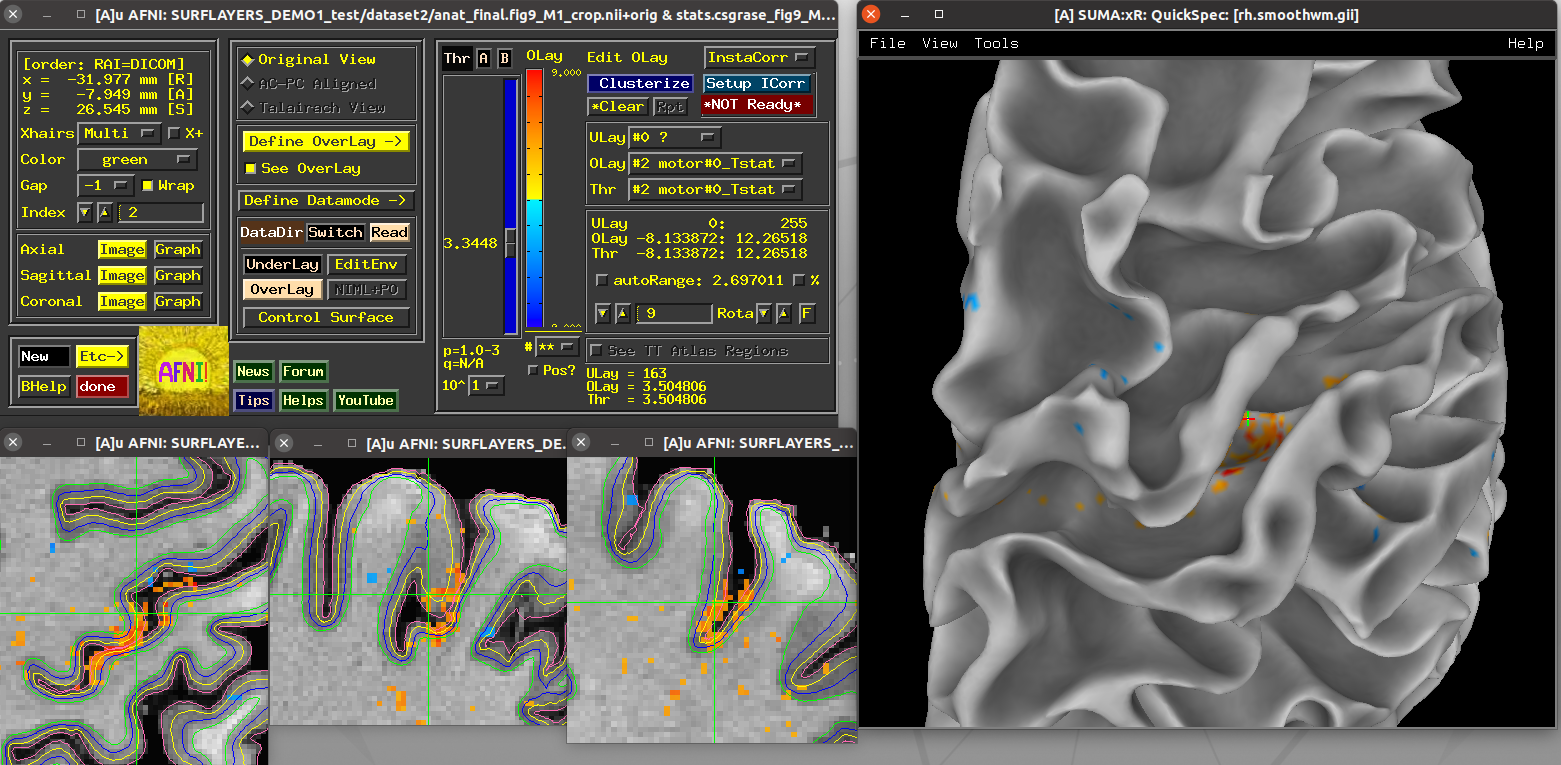
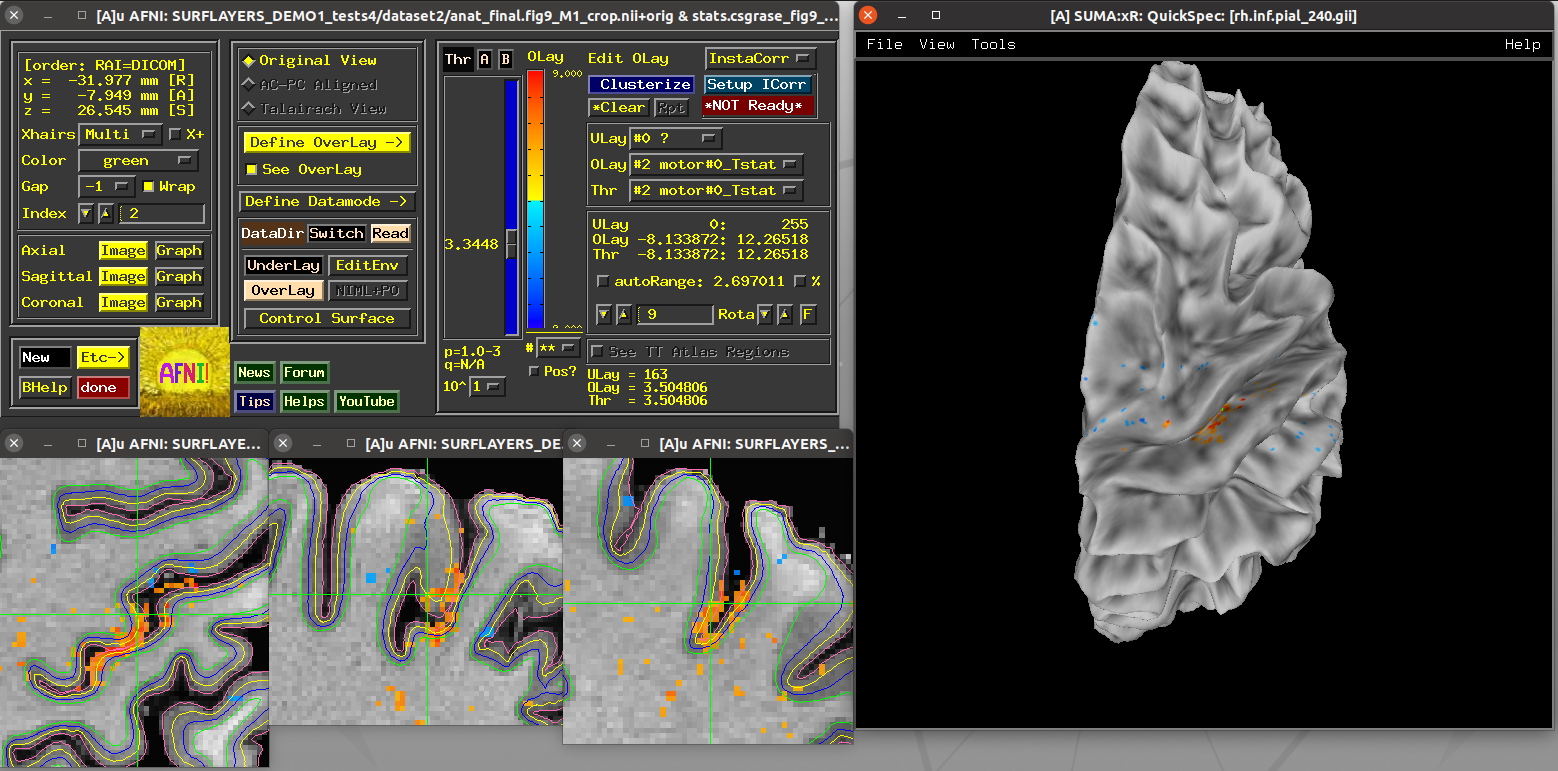
tut, surflayers: update s04 img, bc demo script is updating.  SUMA, Clipping: tweak text

diff --git a/SUMA/Clipping.rst b/SUMA/Clipping.rst
@@ -21,7 +21,7 @@ focus on just part of the data, or to look at nested layers.  In these
 cases (and others), it can be useful to have **clipping planes**:
 these are geometrically flat planes that clip away data on one side.
 At present, you can have up to 6 planes, each of which is mobile
-(translatable or rotatable, as well as flippable).
+(translate, rotate, flip, etc.).
 
 | One particularly useful application of clipping planes is here:
 | :ref:`tut_surflayers`
@@ -49,27 +49,27 @@ or keypresses.
 
 Below:
 
-  **[1-6]** means one of the clipping plane numbers, in range [1, 6].
+  *[1-6]* means one of the clipping plane numbers, in range [1, 6].
 
-  An **active** clipping plane is clipping (whether visible or not),
-  while an **inactive** plane is not clipping (whether visible or
+  An *active* clipping plane is clipping (whether visible or not),
+  while an *inactive* plane is not clipping (whether visible or
   not).
 
-  A **selected** plane can be controlled with the action keys
-  (scroll/translate, rotate, flip, etc.).
+  A *selected* plane can be controlled with the action keys
+  (scroll/translate, rotate, flip/invert, etc.).
 
-  The **normal** of a plane is a direction perpendicular its
+  The *normal* of a plane is a direction perpendicular its
   face. Scrolling/translation is motion along either the "inner" or
   "outer" normal direction.  The "outer" normal is side of the plane
   that is originally clipping.
 
-  The **rotation** of a plane moves it around one of the coordinate
+  The *rotation* of a plane moves it around one of the coordinate
   axes.  Each plane can rotate around two axes. If the plane's normal
-  is originally parallel to the *y* \-axis, then it can rotate around
-  either the *x*\ - or *z*\ -axis.
+  is originally parallel to the y-axis, then it can rotate around
+  either the x- or z-axis.
 
-  On a Mac, you would likely replace the **Alt** keystroke with
-  **Cmd** or **Opt**.
+  On a Mac, you would likely replace the ``Alt`` keystroke with
+  ``Cmd`` or ``Opt``.
 
 .. list-table:: 
    :header-rows: 1
@@ -89,7 +89,7 @@ Below:
    * - **n**
      - Successively add a new clipping plane (up to number 6)
    * - **Ctrl+f**
-     - Flip the clipping direction of selected plane
+     - Flip/invert the clipping direction of selected plane
    * - **Shift+c**
      - Toggle view of all active clipping planes on/off (active
        clipping remain active)
